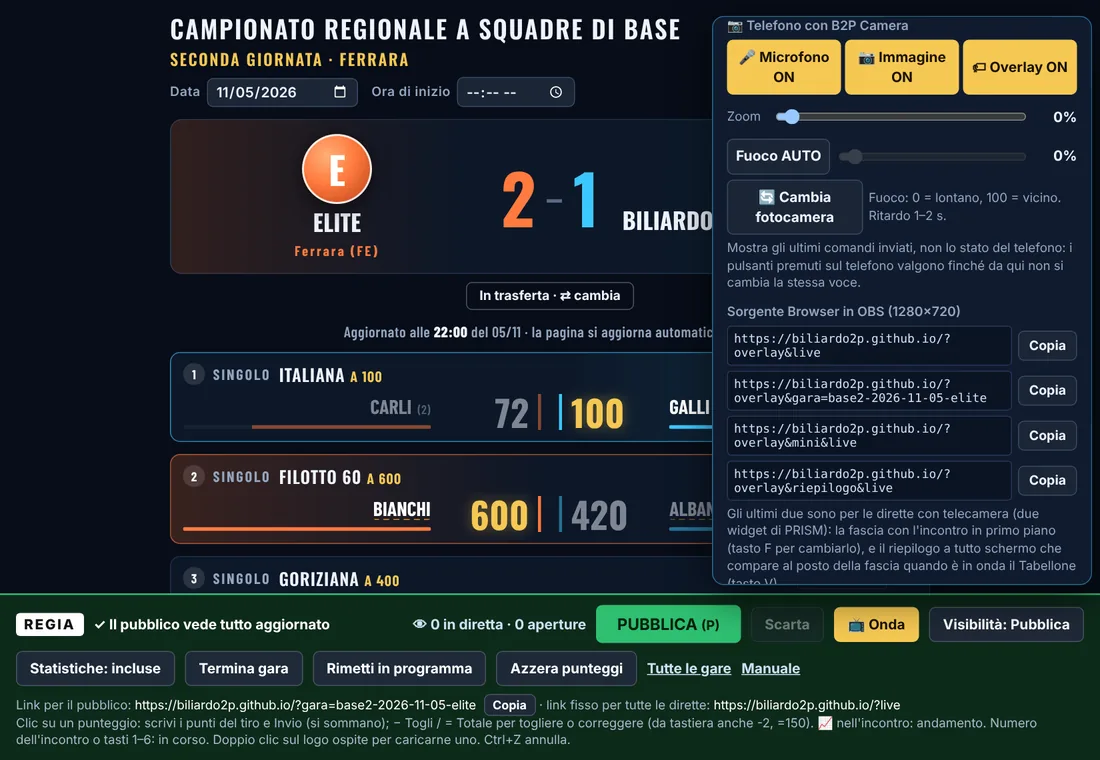
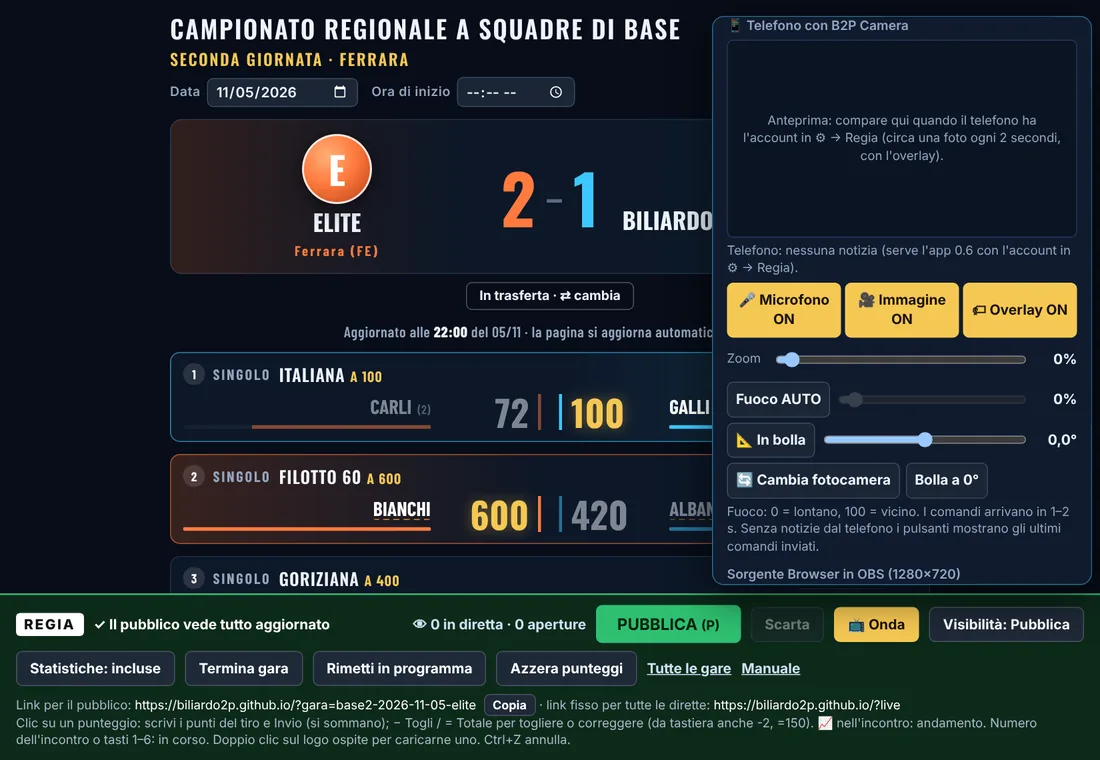
Pannello Onda: anteprima e stato del telefono, bolla; manuale; versione 2026110902
Claude-Session: https://claude.ai/code/session_013Bh35CNDGDysMaFfNKdNZG

Changed region(s): [[0.6491, 0.0303, 0.9891, 0.7868]]

diff --git a/js/overlay.js b/js/overlay.js
@@ -298,7 +298,7 @@ function ondaPaint(){
     <p class="hint">Tasti: <kbd>N</kbd> nascondi/mostra · <kbd>V</kbd> tabellone/fascia · <kbd>F</kbd> incontro in primo piano · <kbd>[</kbd> <kbd>]</kbd> sfondo. Risultati e nomi vanno in onda con PUBBLICA; questi comandi subito.</p>`;
 }
 function ondaToggle(){
-  ondaOpen = !ondaOpen; ondaWatch(); camWatch();
+  ondaOpen = !ondaOpen; ondaWatch(); camWatch(); if(ondaOpen) telStart(); else telStop();
   let p = document.getElementById("ondap");
   if(!p){ p = document.createElement("div"); p.id = "ondap"; p.setAttribute("role", "dialog"); p.setAttribute("aria-label", "Comandi dell'overlay"); document.body.appendChild(p);
     p.addEventListener("click", e=>{ const b = e.target.closest("[data-o]"); if(!b || b.tagName==="SELECT" || b.tagName==="INPUT") return; const [k, v] = b.dataset.o.split(":");
@@ -309,21 +309,28 @@ function ondaToggle(){
         try{ navigator.clipboard.writeText(t).then(()=>setFlash("Indirizzo per OBS copiato"), ()=>setFlash(t)); }catch(err){ setFlash(t); } } });
     p.addEventListener("change", e=>{ const k = e.target.dataset.o; if(!k) return;
       if(k==="primo") ondaSet({primo:+e.target.value}); else if(k==="pag") ondaSet({pag:e.target.value}); else if(k==="ciclo") ondaSet({ciclo:+e.target.value}); else if(k==="bga") ondaSet({bga:+e.target.value});
-      else if(k==="camz" || k==="camf"){ camDrag = false; camSet(k==="camz" ? "zoom" : "fuoco", +e.target.value); } });
+      else if(k==="camz" || k==="camf" || k==="camr"){ camDrag = false; camSet(({camz:"zoom", camf:"fuoco", camr:"rot"})[k], +e.target.value); } });
     p.addEventListener("input", e=>{ const k = e.target.dataset.o;
       if(k==="bga"){ const b = e.target.parentNode.querySelector("b"); if(b) b.textContent = Math.round(e.target.value*100) + "%"; }
-      else if(k==="camz" || k==="camf") camInput(k==="camz" ? "zoom" : "fuoco", e.target); });
+      else if(k==="camz" || k==="camf" || k==="camr") camInput(({camz:"zoom", camf:"fuoco", camr:"rot"})[k], e.target); });
   }
   ondaPaint();
 }
 /* ================= regia: telefono con l'app B2P Camera (nodo camera, uno solo per tutte le gare) =================
-   L'app Android ascolta il nodo camera e applica solo il comando indicato da k (con t nuovo): così all'avvio non riprende
-   comandi vecchi e i pulsanti premuti sul telefono restano validi finché la regia non manda un comando su quella voce.
-   camera = {mic, cam, ov, af: true/false, zoom, fuoco: 0-100, gira: contatore, k: ultima voce cambiata, t: ora}.
-   Il pannello mostra gli ultimi comandi inviati, non lo stato reale del telefono. Dal 09/11/2026. */
+   Comandi: l'app ascolta il nodo camera e applica solo la voce k (con t nuovo): all'avvio non riprende comandi vecchi.
+   camera = {mic, cam, ov, af: true/false, zoom, fuoco: 0-100, rot: gradi -10..10, gira e bolla: contatori, k, t, guarda}.
+   Ritorno (dal 09/11/2026, app 0.6 con account in ⚙): il telefono scrive telefono/stato (ogni 3 s) e telefono/foto
+   (anteprima JPEG ogni 2 s, solo finché la regia "guarda": camera/guarda cambia ogni 15 s col pannello aperto).
+   telefono si legge solo da utenti autenticati: fetch REST con idToken ogni 2 s. Con lo stato fresco (cambiato
+   negli ultimi 12 s) i pulsanti mostrano lo stato vero del telefono, altrimenti gli ultimi comandi inviati. */
 let C = null, camOn = false, camErr = "", camLast = 0, camDrag = false;   /* camDrag: cursore in movimento, niente ridisegno del pannello */
-const CAM0 = {mic:true, cam:true, ov:false, af:true, zoom:0, fuoco:0, gira:0};
+let TEL = null, telVisto = 0, telT = 0, telTimer = 0, telGuarda = 0, telFirma = "";
+const CAM0 = {mic:true, cam:true, ov:false, af:true, zoom:0, fuoco:0, rot:0, gira:0, bolla:0};
 const camO = () => Object.assign({}, CAM0, C || {});
+const telFresco = () => TEL && TEL.stato && Date.now() - telVisto < 12000;
+/* stato mostrato: quello vero del telefono se fresco, altrimenti gli ultimi comandi */
+const camV = () => { const c = camO(); if(!telFresco()) return c; const st = TEL.stato;
+  ["mic","cam","ov","af","zoom","fuoco","rot"].forEach(k=>{ if(st[k]!==undefined) c[k] = st[k]; }); return c; };
 function camWatch(){ if(camOn || !db) return; camOn = true;
   db.ref("camera").on("value", s=>{ C = s.val() || null; if(!camDrag) ondaPaint(); }, ()=>{ camErr = "Non riesco a leggere il nodo camera: aggiungilo alle regole del database."; ondaPaint(); }); }
 async function camSet(k, val, paint = true){
@@ -332,21 +339,47 @@ async function camSet(k, val, paint = true){
   catch(err){ camErr = err && err.code==="PERMISSION_DENIED" ? "Comando non inviato: Firebase lo rifiuta. Aggiungi il nodo camera alle regole del database (vedi manuale, Dirette video)." : "Comando non inviato: controlla la connessione."; }
   if(paint) ondaPaint(); if(camErr) setFlash(camErr);
 }
-function camClick(v){ const c = camO();
+function camClick(v){ const c = camV();
   if(v==="mic" || v==="cam" || v==="ov" || v==="af") camSet(v, !c[v]);
-  else if(v==="gira") camSet("gira", (+c.gira || 0) + 1); }
+  else if(v==="gira" || v==="bolla") camSet(v, (+camO()[v] || 0) + 1);
+  else if(v==="dritto") camSet("rot", 0); }
 /* cursori: mentre si trascina, un comando ogni 300 ms (il valore finale lo manda "change") */
-function camInput(k, el){ const b = el.parentNode.querySelector("b"); if(b) b.textContent = el.value + "%";
+const camFmt = (k, v) => k==="rot" ? (v>0 ? "+" : "") + (+v).toFixed(1).replace(".", ",") + "°" : v + "%";
+function camInput(k, el){ const b = el.parentNode.querySelector("b"); if(b) b.textContent = camFmt(k, el.value);
   camDrag = true; const now = Date.now();
   if(now - camLast > 300){ camLast = now; camSet(k, +el.value, false); } }
-function camHTML(){ const c = camO(), sw = (k, on, t1, t0) => `<button data-o="cam:${k}" class="${on ? "on" : ""}">${on ? t1 : t0}</button>`;
-  return `<div class="og cam"><span>📷 Telefono con B2P Camera</span>
-      <div class="seg">${sw("mic", c.mic, "🎤 Microfono ON", "🎤 Microfono OFF")}${sw("cam", c.cam, "📷 Immagine ON", "📷 Nero")}${sw("ov", c.ov, "🏷 Overlay ON", "🏷 Overlay OFF")}</div>
+/* pannello aperto: "guardo" ogni 15 s (il telefono manda l'anteprima) e lettura del telefono ogni 2 s */
+function telStart(){ if(telTimer) return; telTick(); telTimer = setInterval(telTick, 2000); }
+function telStop(){ clearInterval(telTimer); telTimer = 0; }
+async function telTick(){
+  if(!ondaOpen){ telStop(); return; }
+  const now = Date.now();
+  if(now - telGuarda > 15000){ telGuarda = now; try{ await dbWrite({"camera/guarda": now}); }catch(e){} }
+  let j = null;
+  try{ const r = await fetch(FIREBASE.databaseURL + "/telefono.json?auth=" + encodeURIComponent(await idToken())); if(r.ok) j = await r.json(); }catch(e){ return; }
+  TEL = j; const t = j && j.stato && +j.stato.t || 0; if(t && t!==telT){ telT = t; telVisto = Date.now(); }
+  const img = document.getElementById("camfoto"); if(img && j && j.foto && img.getAttribute("src")!==j.foto) img.setAttribute("src", j.foto);
+  const st = document.getElementById("camst"); if(st) st.innerHTML = telStatoHTML();
+  const c = camV(), firma = [c.mic,c.cam,c.ov,c.af,c.zoom,c.fuoco,c.rot,telFresco(),!!(j && j.foto)].join();
+  if(firma!==telFirma && !camDrag){ telFirma = firma; ondaPaint(); }
+}
+function telStatoHTML(){
+  if(!TEL || !TEL.stato) return "Telefono: nessuna notizia (serve l'app 0.6 con l'account in ⚙ → Regia).";
+  const s = TEL.stato, fresco = telFresco();
+  return `${fresco ? "" : "⚠ non risponde da un po' · "}${s.live ? `<b class="rec">● IN DIRETTA</b> ${String(s.mbit ?? "").replace(".", ",")} Mbit/s` : "fuori onda"} · ${esc(s.q || "")} · 🔋 ${+s.batt || 0}%`;
+}
+function camHTML(){ const c = camV(), sw = (k, on, t1, t0) => `<button data-o="cam:${k}" class="${on ? "on" : ""}">${on ? t1 : t0}</button>`;
+  const rot = +c.rot || 0, foto = TEL && TEL.foto;
+  return `<div class="og cam"><span>📱 Telefono con B2P Camera</span>
+      <div class="foto">${foto ? `<img id="camfoto" src="${foto}" alt="Anteprima del telefono">` : `<img id="camfoto" alt="" hidden><p>Anteprima: compare qui quando il telefono ha l'account in ⚙ → Regia (circa una foto ogni 2 secondi, con l'overlay).</p>`}</div>
+      <small id="camst">${telStatoHTML()}</small>
+      <div class="seg">${sw("mic", c.mic, "🎤 Microfono ON", "🎤 Microfono OFF")}${sw("cam", c.cam, "🎥 Immagine ON", "🎥 Nero")}${sw("ov", c.ov, "🏷 Overlay ON", "🏷 Overlay OFF")}</div>
       <div class="two"><small>Zoom</small><input type="range" min="0" max="100" step="1" value="${+c.zoom || 0}" data-o="camz"><b>${+c.zoom || 0}%</b></div>
       <div class="two"><button data-o="cam:af" class="${c.af ? "" : "on"}">${c.af ? "Fuoco AUTO" : "Fuoco MAN"}</button><input type="range" min="0" max="100" step="1" value="${+c.fuoco || 0}" data-o="camf"${c.af ? " disabled" : ""}><b>${+c.fuoco || 0}%</b></div>
-      <div class="two"><button data-o="cam:gira">🔄 Cambia fotocamera</button><small>Fuoco: 0 = lontano, 100 = vicino. Ritardo 1–2 s.</small></div>
+      <div class="two"><button data-o="cam:bolla" title="Il telefono legge il suo sensore e si raddrizza da solo">📐 In bolla</button><input type="range" min="-10" max="10" step="0.5" value="${rot}" data-o="camr" title="Raddrizza a mano: gradi"><b>${camFmt("rot", rot)}</b></div>
+      <div class="two"><button data-o="cam:gira">🔄 Cambia fotocamera</button><button data-o="cam:dritto" title="Toglie la correzione della bolla">Bolla a 0°</button></div>
       ${camErr ? `<p class="err">${esc(camErr)}</p>` : ""}
-      <small>Mostra gli ultimi comandi inviati, non lo stato del telefono: i pulsanti premuti sul telefono valgono finché da qui non si cambia la stessa voce.</small></div>`;
+      <small>Fuoco: 0 = lontano, 100 = vicino. I comandi arrivano in 1–2 s. ${telFresco() ? "I pulsanti mostrano lo stato del telefono." : "Senza notizie dal telefono i pulsanti mostrano gli ultimi comandi inviati."}</small></div>`;
 }
 document.addEventListener("keydown", e=>{
   if(!editor || mode!=="board" || e.ctrlKey || e.metaKey || e.altKey) return;

diff --git a/manuale.html b/manuale.html
@@ -469,12 +469,15 @@ assente
 <ul>
   <li><span class="btn">🏷 Overlay</span> mette sopra il video la fascia (<code>?overlay&amp;mini&amp;live</code>) e il riepilogo (<code>?overlay&amp;riepilogo&amp;live</code>), già impostati in ⚙. Il tasto <kbd>V</kbd> del pannello 📺 Onda li alterna come in PRISM. In ⚙ la spunta “Segui le gare di prova” aggiunge <code>&amp;prova</code> e salvando la pagina si ricarica (niente più <code>&amp;r=N</code>).</li>
   <li>Sul telefono: microfono e immagine accesi/spenti (spenta = in diretta va il nero, l'audio continua), zoom, fuoco automatico (tocca l'immagine) o manuale, cambio fotocamera.</li>
+  <li><b>Bolla</b>: se il telefono è un po' storto, il pulsante con il righello lo raddrizza da solo leggendo il sensore di gravità (fino a 10°); il cursore accanto corregge a mano, una pressione lunga sul pulsante torna a 0°. L'immagine viene ruotata e leggermente ingrandita (circa 9% per 3°), l'overlay resta dritto.</li>
+  <li><b>Qualità</b> in ⚙: 540p (1,2 Mbit/s, rete debole), 720p (2,5 Mbit/s) o 1080p (4,5 Mbit/s, testo dell'overlay più nitido). Cambiandola l'app si riavvia. La spunta “Abbassa la qualità da sola se la rete rallenta” (accesa di norma) riduce i Mbit/s quando la rete non ce la fa.</li>
+  <li><b>YouTube e Facebook</b>: titolo, privacy e dove pubblicare (canale, profilo, Pagina) non si scelgono nell'app ma dove si prende la chiave: YouTube Studio → Trasmetti dal vivo; per Facebook <b>Live Producer</b> dal computer (Crea diretta → Software di streaming), dove si copiano server e chiave, si scelgono titolo e pubblico e, dopo aver premuto LIVE nell'app, si preme <b>Trasmetti/Vai in diretta</b> anche su Facebook.</li>
 </ul>
-<p><b>Telefono comandato dalla regia.</b> Nel pannello 📺 Onda c'è la sezione <b>📷 Telefono con B2P Camera</b>: microfono, immagine/nero, overlay, zoom, fuoco automatico o manuale e cambio fotocamera. Il telefono riceve il comando in 1–2 secondi, da qualunque rete (anche con i dati mobili); in alto a sinistra sullo schermo del telefono compare “📡 Regia collegata” e l'ultimo comando ricevuto.</p>
+<p><b>Telefono comandato dalla regia.</b> Nel pannello 📺 Onda c'è la sezione <b>📱 Telefono con B2P Camera</b>: anteprima, stato del telefono, microfono, immagine/nero, overlay, zoom, fuoco automatico o manuale, bolla e cambio fotocamera. Il telefono riceve il comando in 1–2 secondi, da qualunque rete (anche con i dati mobili); in alto a sinistra sullo schermo del telefono compare “📡 Regia collegata” e l'ultimo comando ricevuto.</p>
 <ul>
-  <li>Il pannello mostra gli ultimi comandi inviati, non lo stato del telefono: se sul telefono si preme un pulsante, quello vale finché dalla regia non si cambia la stessa voce.</li>
+  <li><b>Anteprima e stato</b>: con il pannello aperto il telefono manda una piccola foto ogni 2 secondi (con overlay e bolla, anche quando in diretta va il nero) e il suo stato: in diretta o no, Mbit/s, qualità, batteria. I pulsanti mostrano allora lo stato vero del telefono. Serve un utente di Firebase per il telefono (una volta sola: console di Firebase → Authentication → Users → Aggiungi utente, con un'email anche inventata, es. <code>telefono@biliardo2p.it</code>, e una password), da scrivere nell'app in ⚙ → Regia. Senza, i comandi funzionano lo stesso e il pannello mostra gli ultimi comandi inviati.</li>
+  <li>L'anteprima parte solo mentre il pannello 📺 Onda è aperto (circa 20–30 KB ogni 2 secondi) e si ferma da sola una quarantina di secondi dopo la chiusura.</li>
   <li>All'accensione il telefono non ripete i comandi vecchi: parte con le sue impostazioni e segue solo i comandi nuovi.</li>
-  <li>Non c'è un'anteprima: per zoom e fuoco si guarda la diretta, che arriva con qualche secondo di ritardo. Meglio muovere i cursori a piccoli passi.</li>
   <li>I comandi si possono spegnere sul telefono: ⚙ → “Accetta comandi dalla regia”.</li>
 </ul>
 <figure class="sh"><img src="img/manuale/regia-onda-camera.webp" alt="Sezione Telefono con B2P Camera nel pannello Onda" loading="lazy" width="1100" height="760"><figcaption>Pannello 📺 Onda: i comandi per il telefono con B2P Camera</figcaption></figure>
@@ -561,6 +564,8 @@ assente
   <dd>L'utente non è autorizzato dalle regole, oppure la sessione è scaduta: torna a Tutte le gare, premi Esci e rientra.</dd>
   <dt>Pannello Onda: “Comando non inviato: Firebase lo rifiuta. Aggiungi il nodo camera…”.</dt>
   <dd>Le regole del database pubblicate non hanno ancora il nodo <code>camera</code>: incolla in Firebase il file <code>regole_database.json</code> aggiornato e premi Pubblica (sezione Amministrazione). Se invece il telefono mostra “📡 Regia: non collegata”, controlla che abbia la rete.</dd>
+  <dt>Nel pannello Onda non compare l'anteprima del telefono.</dt>
+  <dd>Sul telefono, in alto a sinistra, la riga sotto lo stato dice cosa non va: “accesso non riuscito” = email o password sbagliate in ⚙ → Regia; “la regia rifiuta i dati” = regole del database senza il nodo <code>telefono</code>; “rete assente” = il telefono non ha internet. Serve anche la regia con l'accesso fatto (l'anteprima si legge solo da utenti autenticati).</dd>
   <dt>Il pubblico non vede un punteggio che ho inserito.</dt>
   <dd>Controlla la barra di regia: se dice “Modifiche NON ancora pubblicate”, premi PUBBLICA.</dd>
   <dt>Un nome è sottolineato in arancione.</dt>
@@ -577,7 +582,8 @@ assente
 <h3>9 novembre 2026</h3>
 <ul>
   <li>Nuova app Android <b>B2P Camera</b> per le dirette dal telefono, con fascia e riepilogo del sito sopra il video, senza pubblicità né watermark.</li>
-  <li>Pannello 📺 Onda: nuova sezione <b>📷 Telefono con B2P Camera</b> per comandare il telefono dalla regia (microfono, immagine, overlay, zoom, fuoco, cambio fotocamera). Richiede il nodo <code>camera</code> nelle regole del database.</li>
+  <li>B2P Camera 0.6: <b>anteprima e stato del telefono</b> nel pannello 📺 Onda, <b>bolla</b> (raddrizza l'immagine se il telefono è storto), scelta della <b>qualità</b> (540p, 720p, 1080p), icone nuove. Richiede il nodo <code>telefono</code> nelle regole del database e un utente di Firebase per il telefono.</li>
+  <li>Pannello 📺 Onda: nuova sezione <b>📱 Telefono con B2P Camera</b> per comandare il telefono dalla regia (microfono, immagine, overlay, zoom, fuoco, cambio fotocamera). Richiede il nodo <code>camera</code> nelle regole del database.</li>
 </ul>
 <h3>8 novembre 2026</h3>
 <ul>

diff --git a/index.html b/index.html
@@ -17,12 +17,12 @@
 <meta name="apple-mobile-web-app-title" content="Live 2P">
 <link rel="preconnect" href="https://fonts.gstatic.com" crossorigin>
 <link rel="stylesheet" href="https://fonts.googleapis.com/css2?family=Barlow+Condensed:wght@500;600;700;800&family=Oswald:wght@600;700&display=swap">
-<link rel="stylesheet" href="css/base.css?v=2026110901">
-<link rel="stylesheet" href="css/elenco-regia.css?v=2026110901">
-<link rel="stylesheet" href="css/torneo.css?v=2026110901">
-<link rel="stylesheet" href="css/set-andamento.css?v=2026110901">
-<link rel="stylesheet" href="css/anagrafica.css?v=2026110901">
-<link rel="stylesheet" href="css/overlay.css?v=2026110901">
+<link rel="stylesheet" href="css/base.css?v=2026110902">
+<link rel="stylesheet" href="css/elenco-regia.css?v=2026110902">
+<link rel="stylesheet" href="css/torneo.css?v=2026110902">
+<link rel="stylesheet" href="css/set-andamento.css?v=2026110902">
+<link rel="stylesheet" href="css/anagrafica.css?v=2026110902">
+<link rel="stylesheet" href="css/overlay.css?v=2026110902">
 </head>
 <body>
 <div id="app"></div>
@@ -69,22 +69,22 @@
 <div id="sug" hidden role="listbox" aria-label="Giocatori"></div>
 <script src="https://www.gstatic.com/firebasejs/10.12.2/firebase-app-compat.js"></script>
 <script src="https://www.gstatic.com/firebasejs/10.12.2/firebase-database-compat.js"></script>
-<script src="js/config.js?v=2026110901"></script>
-<script src="js/formule.js?v=2026110901"></script>
-<script src="js/util.js?v=2026110901"></script>
-<script src="js/gara.js?v=2026110901"></script>
-<script src="js/dati.js?v=2026110901"></script>
-<script src="js/vista-gara.js?v=2026110901"></script>
-<script src="js/vista-elenco.js?v=2026110901"></script>
-<script src="js/render.js?v=2026110901"></script>
-<script src="js/interazioni.js?v=2026110901"></script>
-<script src="js/anagrafica.js?v=2026110901"></script>
-<script src="js/nomi.js?v=2026110901"></script>
-<script src="js/controllo-nomi.js?v=2026110901"></script>
-<script src="js/giocatori.js?v=2026110901"></script>
-<script src="js/overlay.js?v=2026110901"></script>
-<script src="js/regia-barra.js?v=2026110901"></script>
-<script src="js/avvio.js?v=2026110901"></script>
+<script src="js/config.js?v=2026110902"></script>
+<script src="js/formule.js?v=2026110902"></script>
+<script src="js/util.js?v=2026110902"></script>
+<script src="js/gara.js?v=2026110902"></script>
+<script src="js/dati.js?v=2026110902"></script>
+<script src="js/vista-gara.js?v=2026110902"></script>
+<script src="js/vista-elenco.js?v=2026110902"></script>
+<script src="js/render.js?v=2026110902"></script>
+<script src="js/interazioni.js?v=2026110902"></script>
+<script src="js/anagrafica.js?v=2026110902"></script>
+<script src="js/nomi.js?v=2026110902"></script>
+<script src="js/controllo-nomi.js?v=2026110902"></script>
+<script src="js/giocatori.js?v=2026110902"></script>
+<script src="js/overlay.js?v=2026110902"></script>
+<script src="js/regia-barra.js?v=2026110902"></script>
+<script src="js/avvio.js?v=2026110902"></script>
 
 </body>
 </html>

diff --git a/css/overlay.css b/css/overlay.css
@@ -253,6 +253,11 @@ body.ovm > *:not(#app){display:none!important}
 #ondap .cam .two small{color:#93a5bf;font-size:12.5px}
 #ondap .cam .two>small:first-child{min-width:3.2em}
 #ondap .cam>small{color:#93a5bf;font-size:12.5px}
+#ondap .cam .foto{aspect-ratio:16/9;background:#0b1424;border:1px solid #26385a;border-radius:6px;overflow:hidden;display:flex;align-items:center;justify-content:center}
+#ondap .cam .foto img{width:100%;height:100%;object-fit:contain;display:block}
+#ondap .cam .foto p{margin:0;padding:10px 14px;color:#93a5bf;font-size:12.5px;text-align:center}
+#ondap .cam .rec{color:#ff5a5a}
+#ondap .cam .two button{white-space:nowrap}
 #ondap .cam .two button.on{background:#f6c853;border-color:#f6c853;color:#1a1205}
 #ondap input[type=range]:disabled{opacity:.4}
 #ondap kbd{font:12px ui-monospace,Consolas,monospace;border:1px solid #3b4a63;border-bottom-width:2px;border-radius:3px;padding:0 4px}
